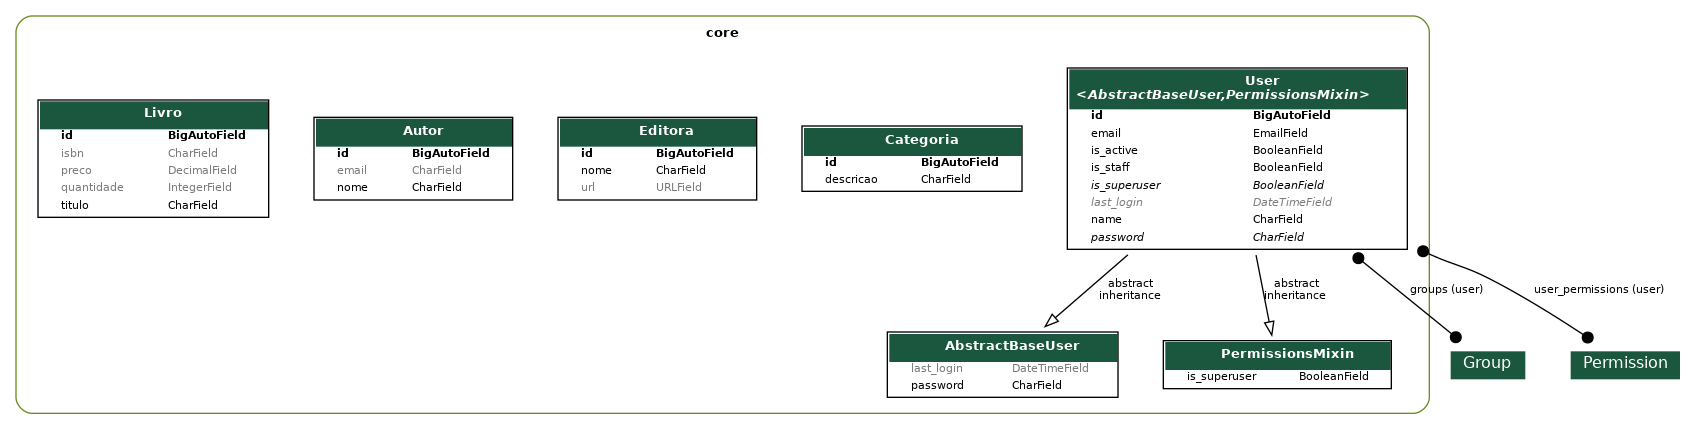
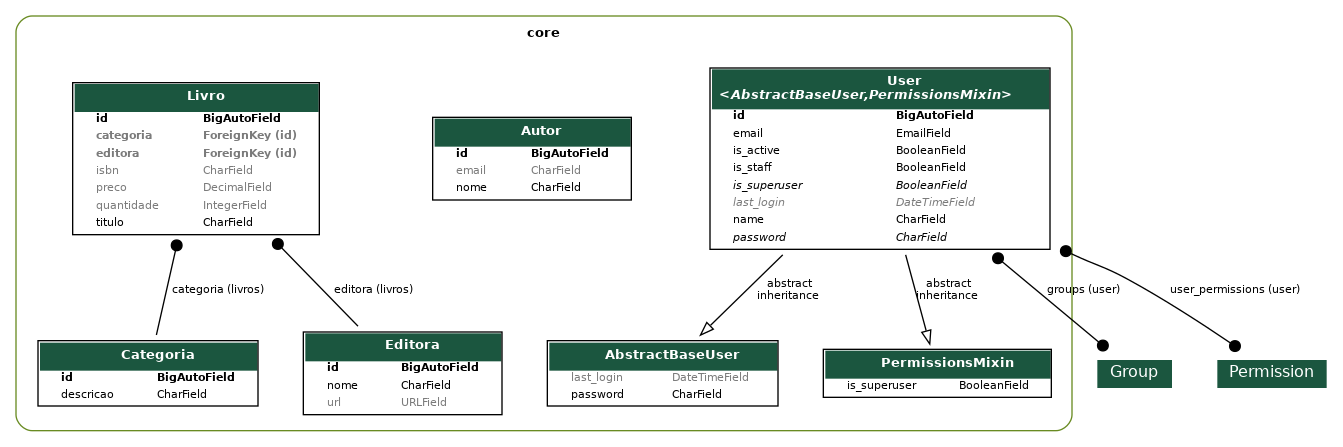
Adição da categoria e editora na tabela livros

diff --git a/core/models/livro.py b/core/models/livro.py
@@ -1,10 +1,20 @@
 from django.db import models
+from .categoria import Categoria
+from .editora import Editora
 
 class Livro(models.Model):
     titulo = models.CharField(max_length=255)
     isbn = models.CharField(max_length=32, null=True, blank=True)
     quantidade = models.IntegerField(default=0,  null=True, blank=True)
     preco = models.DecimalField(max_digits=7, decimal_places=2, default=0, null=True, blank=True)
+    
+    categoria = models.ForeignKey(
+    Categoria, on_delete=models.PROTECT, related_name="livros", null=True, blank=True
+    )
+    editora = models.ForeignKey(
+    Editora, on_delete=models.PROTECT, related_name="livros", null=True, blank=True
+    )
+    
 
     def __str__(self):
-        return f" |{self.id}| {self.titulo} ({self.quantidade} unidades)"
+        return f" |{self.id}| {self.titulo} ({self.quantidade} unidades) - {self.categoria} - {self.editora}"

diff --git a/core/migrations/0007_livro_editora.py b/core/migrations/0007_livro_editora.py
@@ -1,0 +1,25 @@
+# Generated by Django 5.0.2 on 2024-07-29 14:48
+
+import django.db.models.deletion
+from django.db import migrations, models
+
+
+class Migration(migrations.Migration):
+
+    dependencies = [
+        ("core", "0006_livro_categoria"),
+    ]
+
+    operations = [
+        migrations.AddField(
+            model_name="livro",
+            name="editora",
+            field=models.ForeignKey(
+                blank=True,
+                null=True,
+                on_delete=django.db.models.deletion.PROTECT,
+                related_name="livros",
+                to="core.editora",
+            ),
+        ),
+    ]

diff --git a/core/migrations/0006_livro_categoria.py b/core/migrations/0006_livro_categoria.py
@@ -1,0 +1,25 @@
+# Generated by Django 5.0.2 on 2024-07-29 14:40
+
+import django.db.models.deletion
+from django.db import migrations, models
+
+
+class Migration(migrations.Migration):
+
+    dependencies = [
+        ("core", "0005_livro"),
+    ]
+
+    operations = [
+        migrations.AddField(
+            model_name="livro",
+            name="categoria",
+            field=models.ForeignKey(
+                blank=True,
+                null=True,
+                on_delete=django.db.models.deletion.PROTECT,
+                related_name="livros",
+                to="core.categoria",
+            ),
+        ),
+    ]
